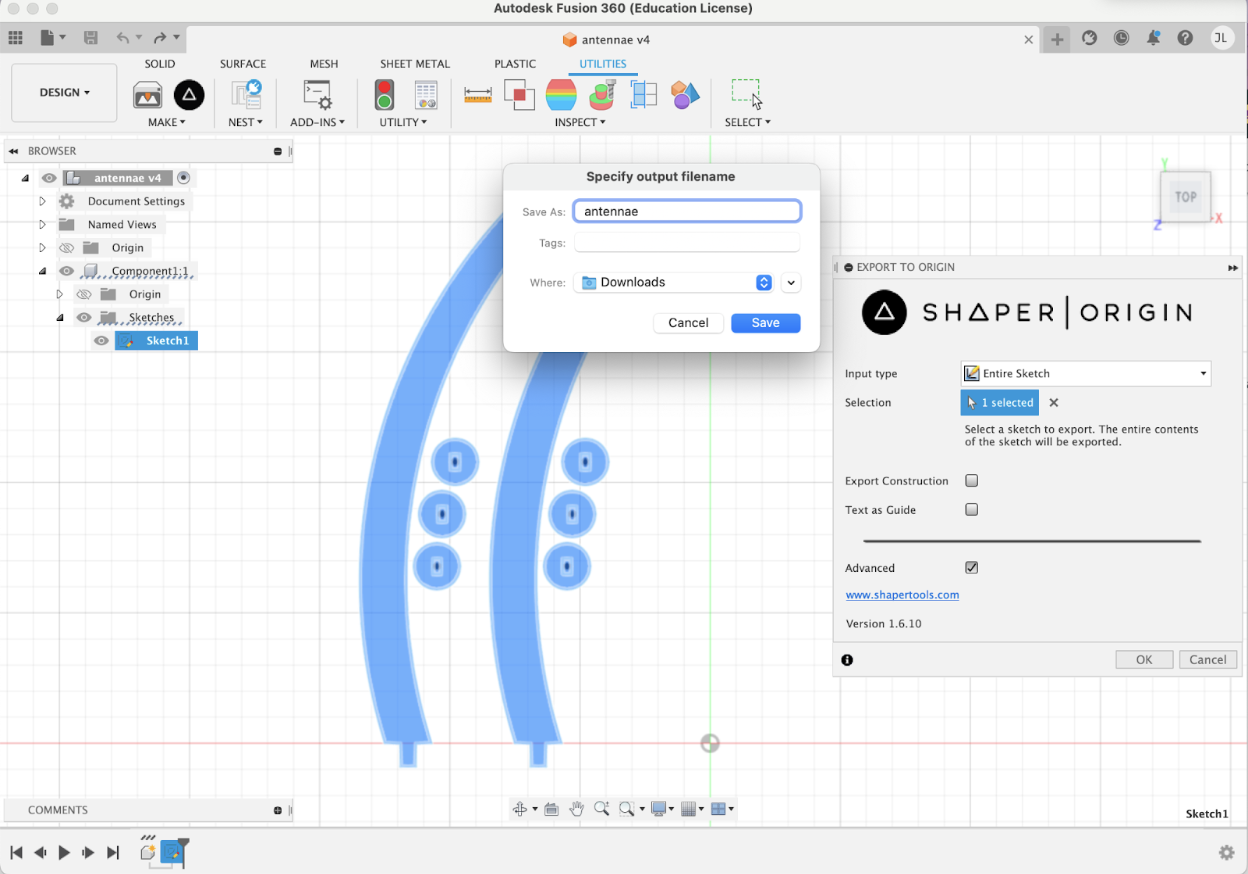
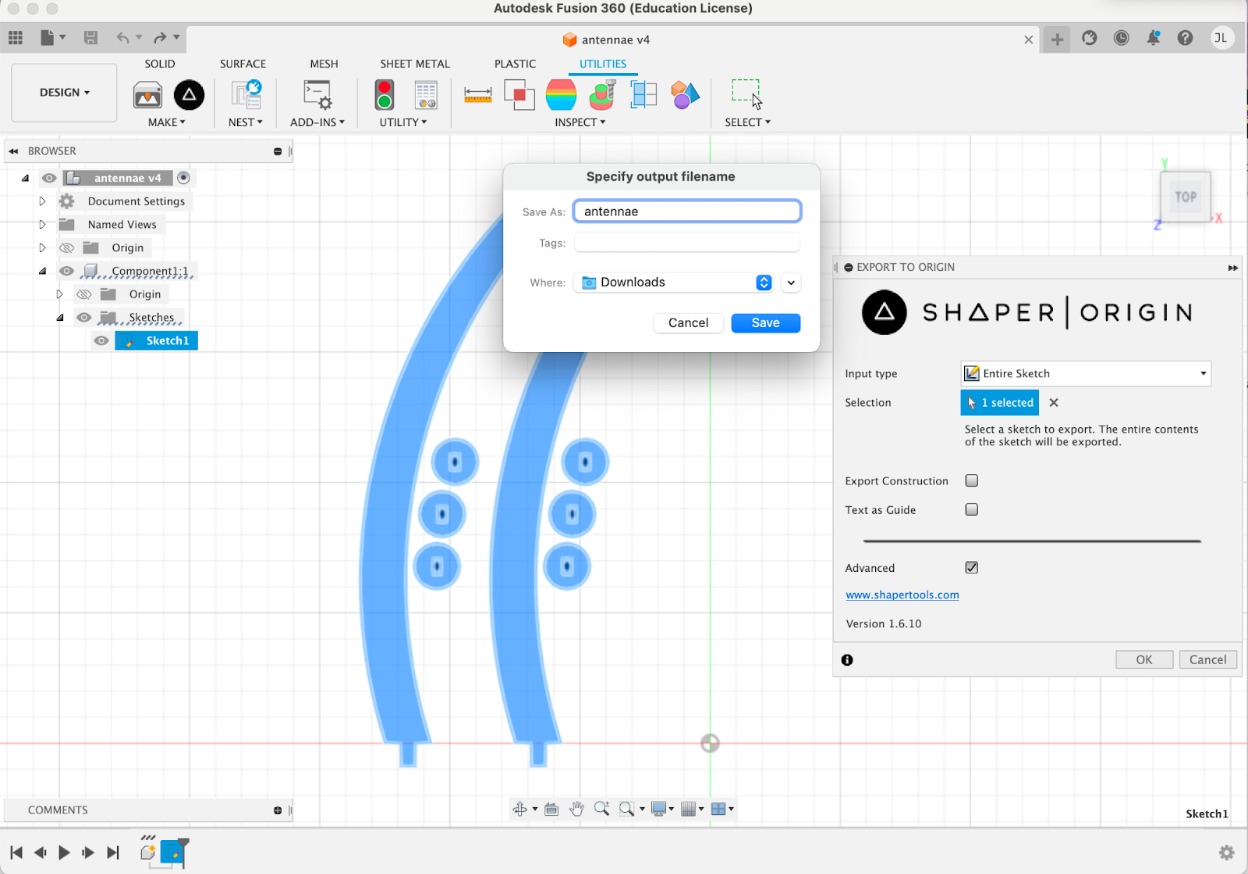
use compressed images

diff --git a/src/pages/lab4.jsx b/src/pages/lab4.jsx
@@ -9,9 +9,9 @@ export default function WearableSynth() {
         which is conductive, can be squished to activate the bear's arrhythmia.
       </p>
       <div className="images">
-        <img src="/lab4-1.png" />
-        <img src="/lab4-2.png" />
-        <img src="/lab4-3.png" />
+        <img src="/lab4-1.jpg" />
+        <img src="/lab4-2.jpg" />
+        <img src="/lab4-3.jpg" />
       </div>
       <p>
         What's this arrhythmia? It's the name of the sonic piece that my
@@ -31,9 +31,9 @@ export default function WearableSynth() {
         range of serial input data.
       </p>
       <div className="images">
-        <img src="/lab4-4.png" />
-        <img src="/lab4-5.png" />
-        <img src="/lab4-6.png" />
+        <img src="/lab4-4.jpg" />
+        <img src="/lab4-5.jpg" />
+        <img src="/lab4-6.jpg" />
       </div>
       <p>
         I ultimately decided to create a pom pom out of yarn and conductive
@@ -51,9 +51,9 @@ export default function WearableSynth() {
         was successful when using a resistor with a small value.
       </p>
       <div className="images">
-        <img src="/lab4-7.png" />
-        <img src="/lab4-8.png" />
-        <img src="/lab4-9.png" />
+        <img src="/lab4-7.jpg" />
+        <img src="/lab4-8.jpg" />
+        <img src="/lab4-9.jpg" />
       </div>
       <p>
         When I was convinced that it was possible to use this pom pom as a
@@ -63,9 +63,9 @@ export default function WearableSynth() {
         for either end of the conductive thread to poke through.
       </p>
       <div className="images">
-        <img src="/lab4-10.png" />
-        <img src="/lab4-11.png" />
-        <img src="/lab4-12.png" />
+        <img src="/lab4-10.jpg" />
+        <img src="/lab4-11.jpg" />
+        <img src="/lab4-12.jpg" />
       </div>
       <p>
         I then connected the conductive thread to solid wire and soldered these
@@ -74,9 +74,9 @@ export default function WearableSynth() {
         interior of the bear.
       </p>
       <div className="images">
-        <img src="/lab4-13.png" />
-        <img src="/lab4-14.png" />
-        <img src="/lab4-15.png" />
+        <img src="/lab4-13.jpg" />
+        <img src="/lab4-14.jpg" />
+        <img src="/lab4-15.jpg" />
       </div>
       <p>
         I continued quilting pieces of scrap fabric together to form the bear's
@@ -95,9 +95,9 @@ export default function WearableSynth() {
         mouth by hand. Notice the difference between the two designs:
       </p>
       <div className="images">
-        <img src="/lab4-16.png" />
-        <img src="/lab4-17.png" />
-        <img src="/lab4-18.png" />
+        <img src="/lab4-16.jpg" />
+        <img src="/lab4-17.jpg" />
+        <img src="/lab4-18.jpg" />
       </div>
       <p>
         For the finishing touches, I sewed some stuffing into the casing for the
@@ -108,9 +108,9 @@ export default function WearableSynth() {
         with the heart.
       </p>
       <div className="images">
-        <img src="/lab4-19.png" />
-        <img src="/lab4-3.png" />
-        <img src="/lab4-1.png" />
+        <img src="/lab4-19.jpg" />
+        <img src="/lab4-3.jpg" />
+        <img src="/lab4-1.jpg" />
       </div>
       <p>
         We decided to give this bear the name "C. Shreddy Bear" as an homage to

diff --git a/src/pages/lab3.jsx b/src/pages/lab3.jsx
@@ -6,8 +6,8 @@ export default function ListeningMachine() {
       <h1>listening machine lab</h1>
       <p>We made human antennae!!!</p>
       <div className="images">
-        <img src="/lab3-1.png" />
-        <img src="/lab3-2.png" />
+        <img src="/lab3-1.jpg" />
+        <img src="/lab3-2.jpg" />
       </div>
       <iframe
         width="560"
@@ -29,23 +29,23 @@ export default function ListeningMachine() {
       </p>
       <p>Diagramming our ideas and converting them to shapes in Fusion 360</p>
       <div className="images">
-        <img src="/lab3-3.png" />
-        <img src="/lab3-4.png" />
-        <img src="/lab3-5.png" />
+        <img src="/lab3-3.jpg" />
+        <img src="/lab3-4.jpg" />
+        <img src="/lab3-5.jpg" />
       </div>
       <p>Using Glowforge to laser cut the Fusion 360 design out of plywood</p>
       <div className="images">
-        <img src="/lab3-6.png" />
-        <img src="/lab3-7.png" />
-        <img src="/lab3-8.png" />
+        <img src="/lab3-6.jpg" />
+        <img src="/lab3-7.jpg" />
+        <img src="/lab3-8.jpg" />
       </div>
       <p>
         Securing and buttressing the antennae using disc cut-outs, and attaching
         them to a helmet made out of cardboard and duct tape
       </p>
       <div className="images">
-        <img src="/lab3-9.png" />
-        <img src="/lab3-10.png" />
+        <img src="/lab3-9.jpg" />
+        <img src="/lab3-10.jpg" />
       </div>
       <p>
         We initially connected the contact mics and buzzers to an analog
@@ -53,9 +53,9 @@ export default function ListeningMachine() {
         could be stored more compactly on top of the cardboard helmet
       </p>
       <div className="images">
-        <img src="/lab3-11.png" />
-        <img src="/lab3-12.png" />
-        <img src="/lab3-13.png" />
+        <img src="/lab3-11.jpg" />
+        <img src="/lab3-12.jpg" />
+        <img src="/lab3-13.jpg" />
       </div>
       <p>
         We then taped the contact mics to the top of the antennae and arranged
@@ -68,7 +68,7 @@ export default function ListeningMachine() {
         manually:
       </p>
       <div className="images">
-        <img src="/lab3-1.png" />
+        <img src="/lab3-1.jpg" />
       </div>
       <span className="empty"></span>
     </div>

diff --git a/src/pages/lab2.jsx b/src/pages/lab2.jsx
@@ -17,9 +17,9 @@ export default function NovelButton() {
         cardstock in the shape of a wave and the walls.
       </p>
       <div className="images">
-        <img src="/lab2-1.png" />
-        <img src="/lab2-2.png" />
-        <img src="/lab2-3.png" />
+        <img src="/lab2-1.jpg" />
+        <img src="/lab2-2.jpg" />
+        <img src="/lab2-3.jpg" />
       </div>
       <p>
         We taped the waves to the swimming pool walls and added a piece of blue
@@ -33,8 +33,8 @@ export default function NovelButton() {
         space bar.
       </p>
       <div className="images">
-        <img src="/lab2-4.png" />
-        <img src="/lab2-5.png" />
+        <img src="/lab2-4.jpg" />
+        <img src="/lab2-5.jpg" />
       </div>
       <p>
         This computer was connected to Scratch, the block-based programming
@@ -46,8 +46,8 @@ export default function NovelButton() {
         pins on the Makey Makey and different sounds in Scratch.
       </p>
       <div className="images">
-        <img src="/lab2-6.png" />
-        <img src="/lab2-7.png" />
+        <img src="/lab2-6.jpg" />
+        <img src="/lab2-7.jpg" />
       </div>
       <p>
         Finally, the trees, which were activated by a handmade dial that would
@@ -59,14 +59,14 @@ export default function NovelButton() {
         connected to the dial and the batteries with alligator clips.
       </p>
       <div className="images">
-        <img src="/lab2-8.png" />
-        <img src="/lab2-9.png" />
-        <img src="/lab2-10.png" />
+        <img src="/lab2-8.jpg" />
+        <img src="/lab2-9.jpg" />
+        <img src="/lab2-10.jpg" />
       </div>
       <div className="images">
-        <img src="/lab2-11.png" />
-        <img src="/lab2-12.png" />
-        <img src="/lab2-13.png" />
+        <img src="/lab2-11.jpg" />
+        <img src="/lab2-12.jpg" />
+        <img src="/lab2-13.jpg" />
       </div>
       <p>
         <a

diff --git a/src/pages/lab1.jsx b/src/pages/lab1.jsx
@@ -18,26 +18,26 @@ export default function HandmadeMachine() {
       </p>
       <p>We constructed the funnel with duct tape and cardboard strips...</p>
       <div className="images">
-        <img src="/lab1-1.png" />
-        <img src="/lab1-2.png" />
-        <img src="/lab1-3.png" />
+        <img src="/lab1-1.jpg" />
+        <img src="/lab1-2.jpg" />
+        <img src="/lab1-3.jpg" />
       </div>
       <p>
         and created the helmet by connecting cardboard strips in a dome-shape...
       </p>
       <div className="images">
-        <img src="/lab1-4.png" />
-        <img src="/lab1-5.png" />
-        <img src="/lab1-6.png" />
+        <img src="/lab1-4.jpg" />
+        <img src="/lab1-5.jpg" />
+        <img src="/lab1-6.jpg" />
       </div>
       <p>
         and attached the funnel and the helmet together. We also used cardboard
         to build walls around a chair, simulating a fun-sized "room".
       </p>
       <div className="images">
-        <img src="/lab1-7.png" />
-        <img src="/lab1-8.png" />
-        <img src="/lab1-9.png" />
+        <img src="/lab1-7.jpg" />
+        <img src="/lab1-8.jpg" />
+        <img src="/lab1-9.jpg" />
       </div>
       <p>Here's a demo of the finished product, the Gigglenator 2000:</p>
       <iframe
